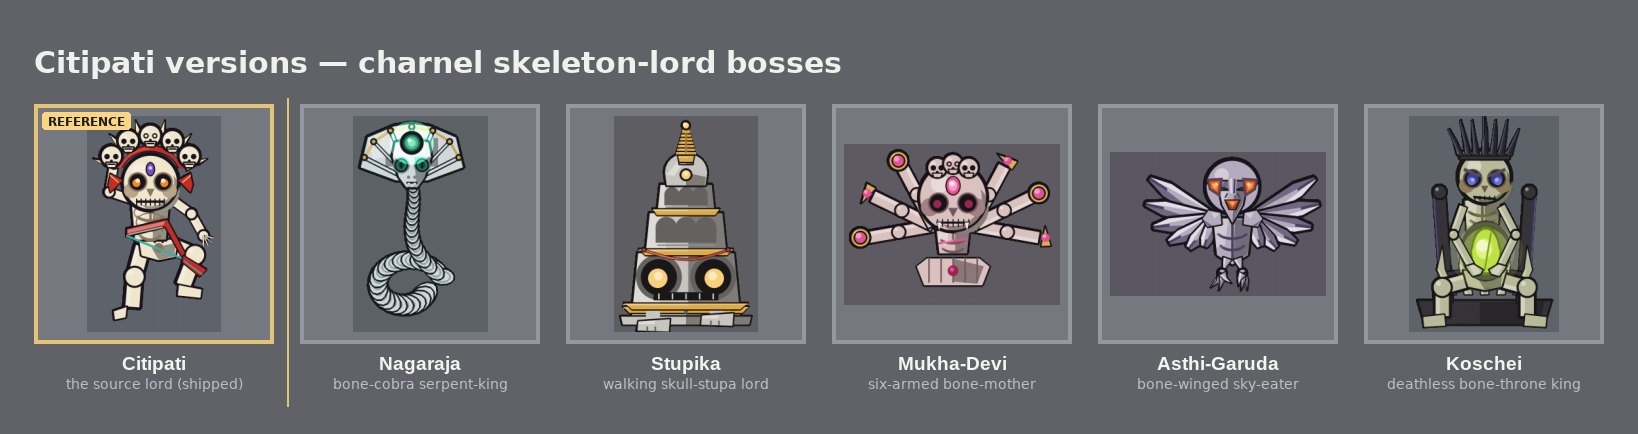
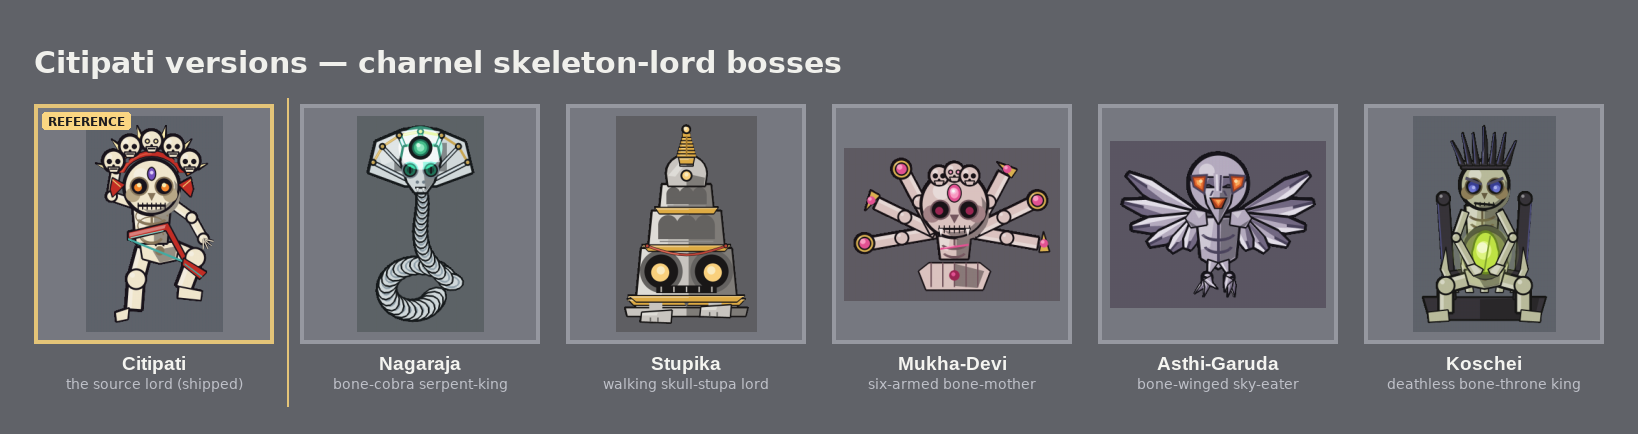
skybit broods: re-crop Citipati showcase so all characters are whole

diff --git a/docs/skybit_devil/batch2/citipati_versions/build_showcase.py b/docs/skybit_devil/batch2/citipati_versions/build_showcase.py
@@ -29,45 +29,46 @@ NAME_COL = (244, 244, 240)
 FACET_COL = (190, 192, 200)
 REF_TAG = (250, 214, 130)
 
-# Per-sheet hero windows (x, y, w, h) in source pixels. Bottoms are trimmed
-# clear of each sheet's "creature ..." caption so only the creature carries in;
-# widths reach each silhouette's true extent (the serpent tail, the wing
-# spread, the six-arm fan, the throne base) so the KIND reads whole.
+# Per-sheet hero windows (x, y, w, h) in source pixels, measured from each
+# sheet's actual hero-panel ink/glow bounding box plus a 14px background margin
+# on every side so no extremity clips — the serpent's full coil base, the
+# stupa spire+plinth, the six-arm RADIAL fan tips, the full WINGSPAN+talons,
+# the iron-crown spikes+throne base. Generous bg is fine; fit_inside normalizes.
 TILES = [
     {
         "file": "docs/skybit_devil/batch2/jiangshi_epic/citipati/round_2.png",
-        "crop": (95, 185, 205, 330),
+        "crop": (89, 176, 215, 337),
         "name": "Citipati",
         "facet": "the source lord (shipped)",
         "reference": True,
     },
     {
         "file": "docs/skybit_devil/batch2/citipati_versions/nagaraja/round_2.png",
-        "crop": (105, 160, 200, 320),
+        "crop": (98, 153, 188, 319),
         "name": "Nagaraja",
         "facet": "bone-cobra serpent-king",
     },
     {
         "file": "docs/skybit_devil/batch2/citipati_versions/stupika/round_2.png",
-        "crop": (78, 100, 232, 348),
+        "crop": (72, 92, 244, 372),
         "name": "Stupika",
         "facet": "walking skull-stupa lord",
     },
     {
         "file": "docs/skybit_devil/batch2/citipati_versions/mukha_devi/round_2.png",
-        "crop": (38, 205, 305, 228),
+        "crop": (31, 198, 315, 224),
         "name": "Mukha-Devi",
         "facet": "six-armed bone-mother",
     },
     {
         "file": "docs/skybit_devil/batch2/citipati_versions/asthi_garuda/round_3.png",
-        "crop": (5, 213, 330, 220),
+        "crop": (40, 206, 303, 235),
         "name": "Asthi-Garuda",
         "facet": "bone-winged sky-eater",
     },
     {
         "file": "docs/skybit_devil/batch2/citipati_versions/koschei/round_2.png",
-        "crop": (83, 168, 216, 310),
+        "crop": (79, 147, 226, 340),
         "name": "Koschei",
         "facet": "deathless bone-throne king",
     },
